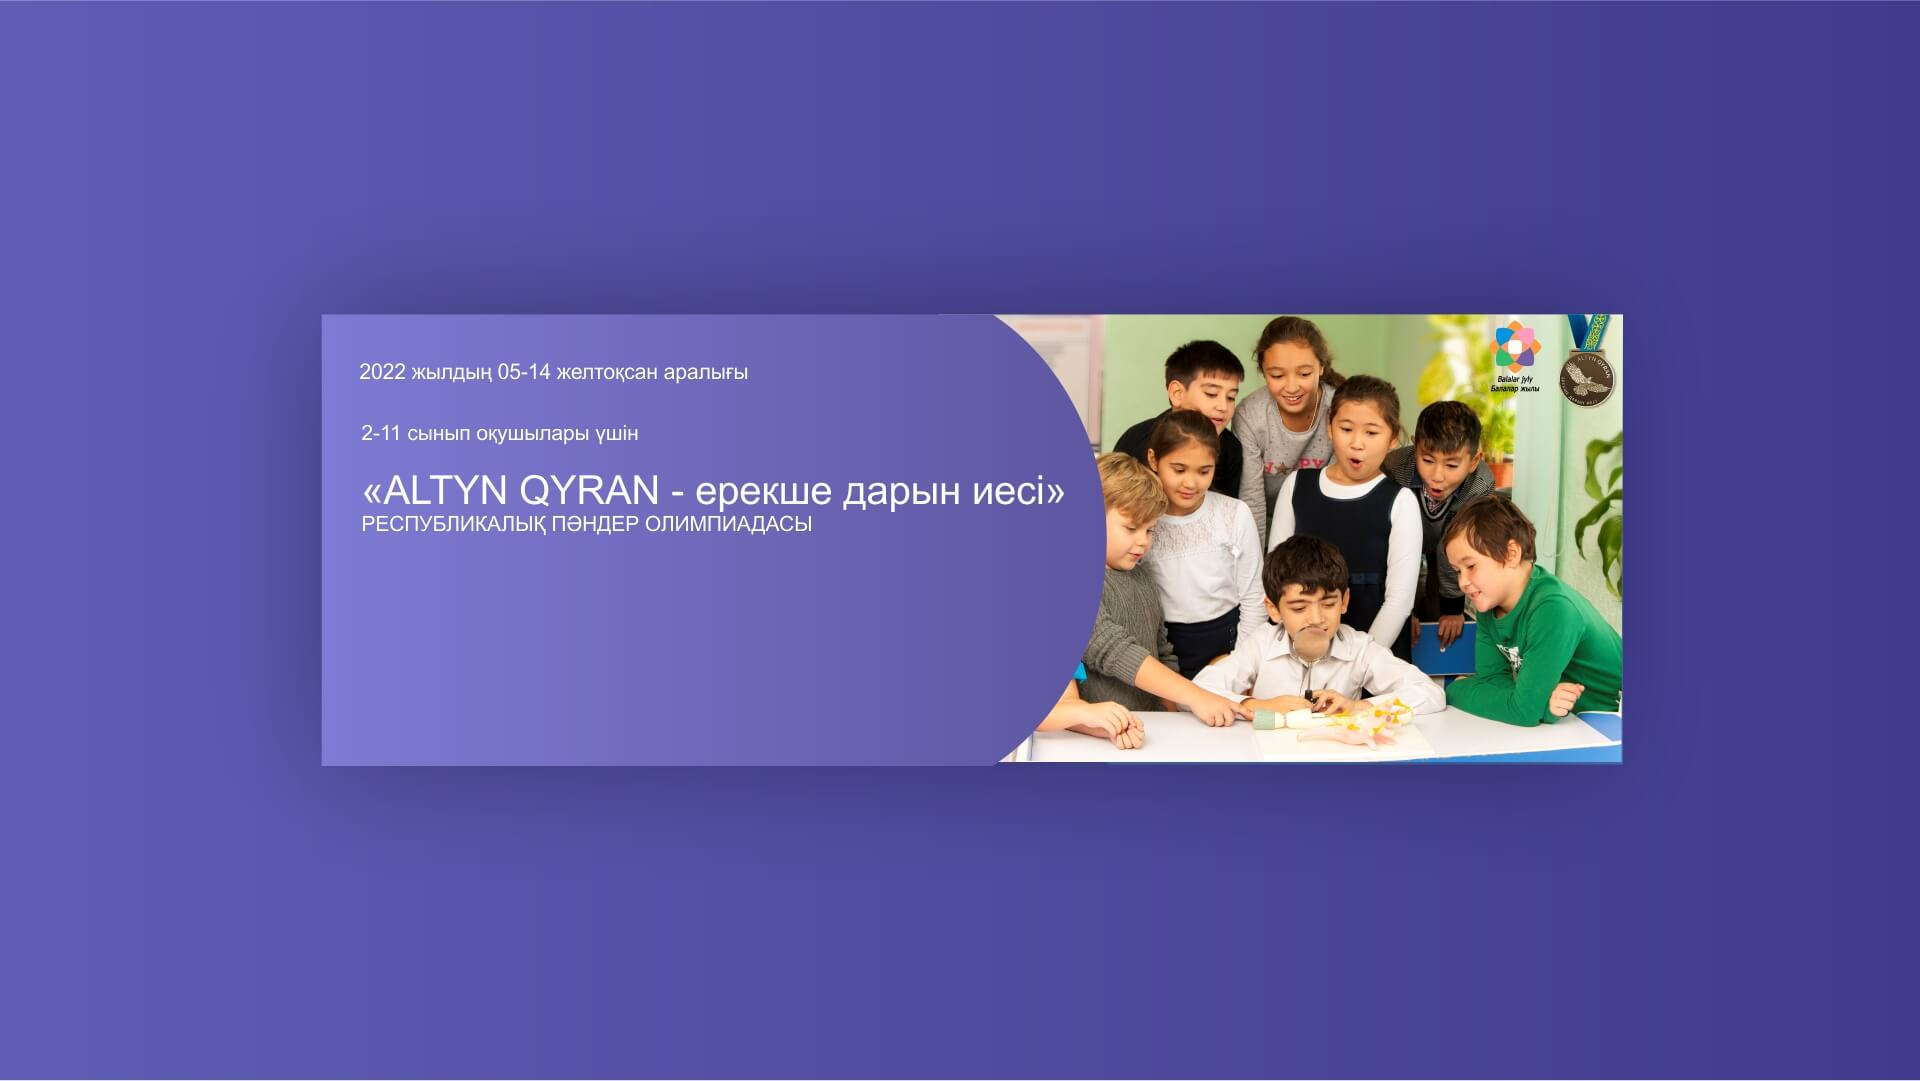
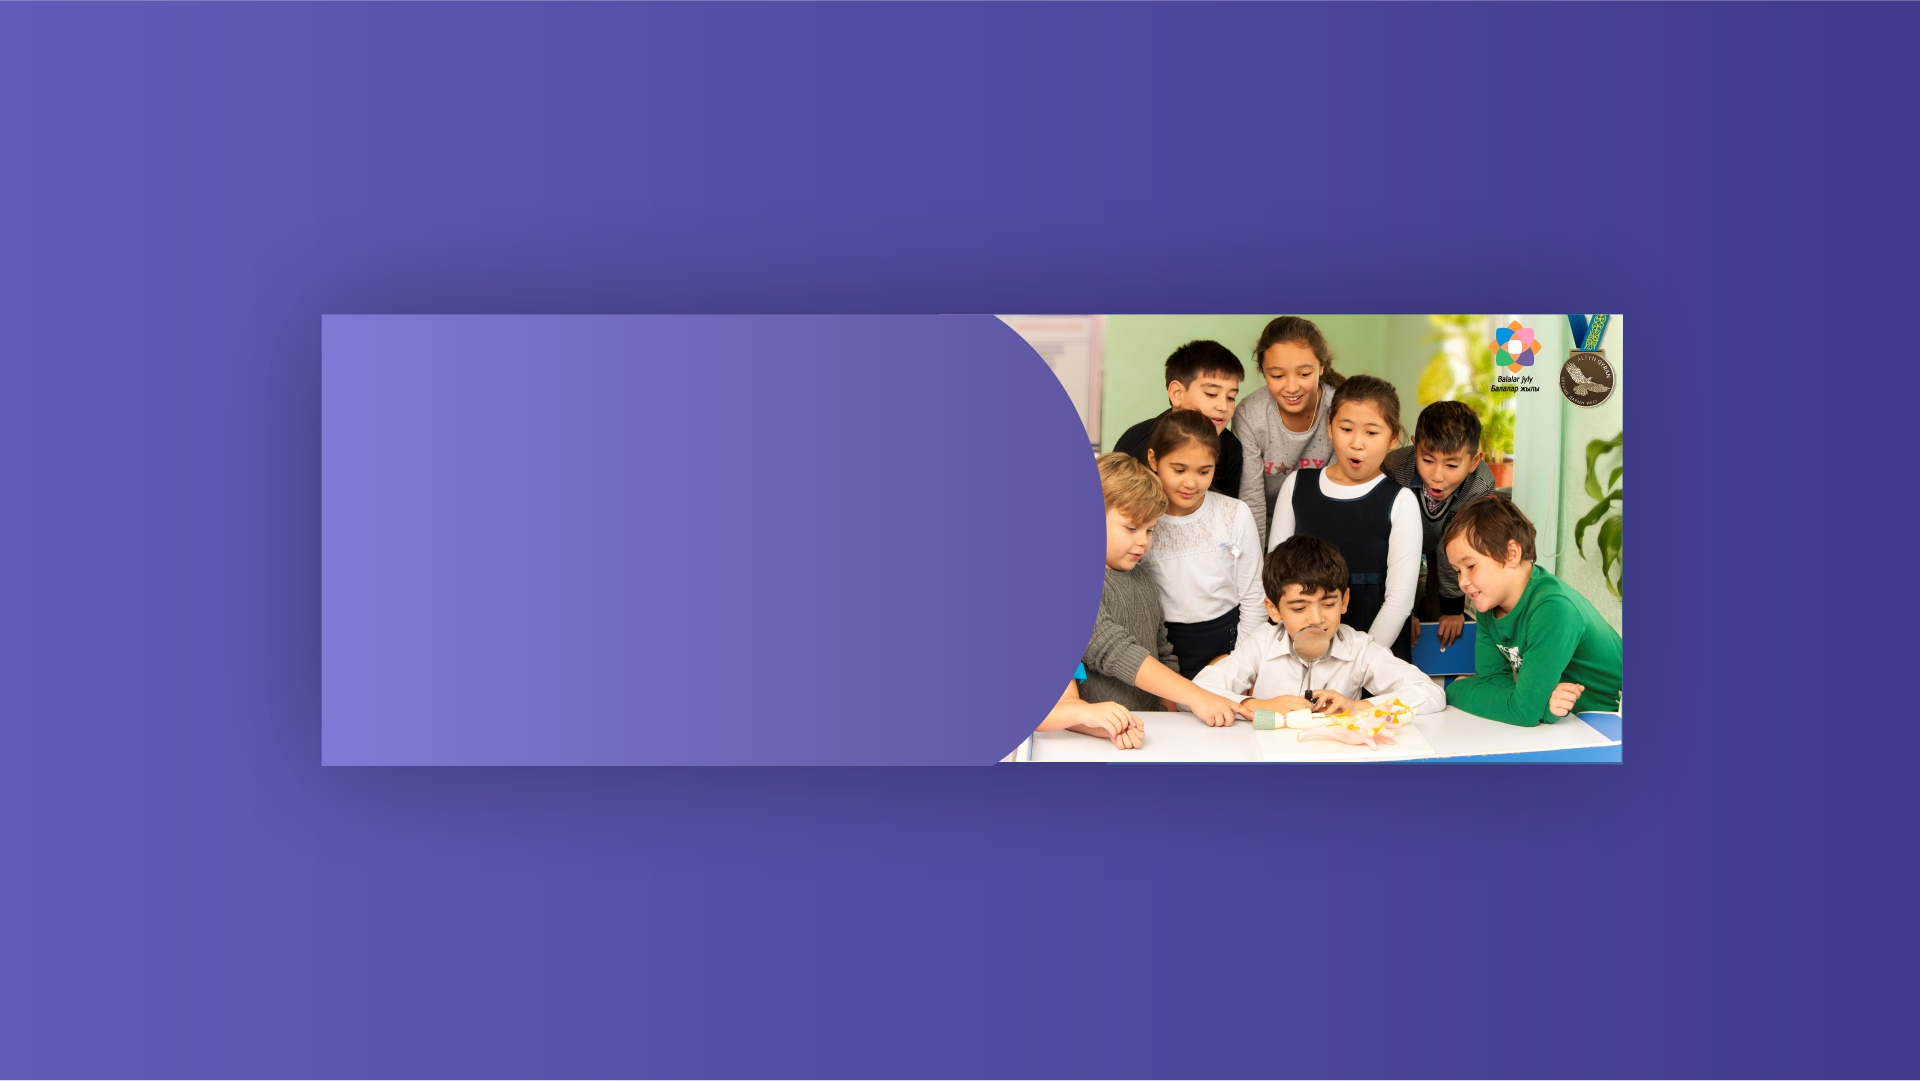
fixes

Changed region(s): [[0.1875, 0.3969, 0.5625, 0.4884], [0.1875, 0.3358, 0.4062, 0.3663], [0.8125, 0.2747, 0.8438, 0.3358]]

diff --git a/frontend/views/site/index.php b/frontend/views/site/index.php
@@ -26,6 +26,82 @@ $this->registerMetaTag([
 
                         <div class="overlay-bg" style="opacity: 0.3;"></div>
 
+                        <!-- help text layer -->
+                        <div class="tp-caption tp-resizeme alt-font text-black font-weight-600 text-white"
+                             id="slide-411-layer-01"
+                             data-frames='[{"delay":200,"speed":2000,"frame":"0","from":"y:[100%];z:0;rX:0deg;rY:0;rZ:0;sX:1;sY:1;skX:0;skY:0;opacity:0;","mask":"x:0px;y:[-100%];s:inherit;e:inherit;","to":"o:1;","ease":"Power2.easeInOut"},{"delay":"wait","speed":300,"frame":"999","to":"auto:auto;","ease":"Power3.easeInOut"}]'
+                             data-type="text"
+                             data-whitespace="nowrap"
+                             data-x="['left','center','center','center']" data-hoffset="['0','0','0','0']"
+                             data-y="['middle','middle','middle','middle']" data-voffset="['-160','-160','-160','-140']"
+                             data-width="auto"
+                             data-height="auto"
+                             data-fontsize="['32','26','26','26']"
+                             data-lineheight="['70','59','70','39']"
+                             data-letterspacing="['0','-1','-1','-1']"
+                             data-responsive="on"
+                             data-responsive_offset="on"
+                             data-paddingtop="['0','0','0','0']"
+                             data-paddingbottom="['15','8','8','8']"
+                             data-paddingright="['0','0','0','0']"
+                             data-paddingleft="['0','0','0','0']"
+                             style="text-shadow: 0 0 20px rgba(0,0,0,0.3);">2022 жылдың 05-14 желтоқсан аралығы</div>
+
+                        <!-- main text layer -->
+                        <div class="tp-caption tp-resizeme alt-font text-white"
+                             id="slide-411-layer-01"
+                             data-frames='[{"delay":200,"speed":2000,"frame":"0","from":"y:[100%];z:0;rX:0deg;rY:0;rZ:0;sX:1;sY:1;skX:0;skY:0;opacity:0;","mask":"x:0px;y:[-100%];s:inherit;e:inherit;","to":"o:1;","ease":"Power2.easeInOut"},{"delay":"wait","speed":300,"frame":"999","to":"auto:auto;","ease":"Power3.easeInOut"}]'
+                             data-type="text"
+                             data-whitespace="nowrap"
+                             data-x="['left','center','center','center']" data-hoffset="['0','0','0','0']"
+                             data-y="['middle','middle','middle','middle']" data-voffset="['-50','-50','-115','-65']"
+                             data-width="auto"
+                             data-height="auto"
+                             data-fontsize="['32','32','32','24']"
+                             data-lineheight="['59','59','70','39']"
+                             data-letterspacing="['0','-1','-1','-1']"
+                             data-responsive="on"
+                             data-responsive_offset="on"
+                             data-paddingtop="['0','0','80','0']"
+                             data-paddingbottom="['15','8','8','8']"
+                             data-paddingright="['0','0','0','0']"
+                             data-paddingleft="['0','0','0','0']"
+                             style="text-shadow: 0 0 20px rgba(0,0,0,0.3);">
+                                 2-11 сынып оқушылары үшін
+                             </div>
+
+                        <!-- small text layer -->
+                        <div class="tp-caption tp-resizeme alt-font text-white"
+                             id="slide-411-layer-02"
+                             data-frames='[{"delay":1200,"speed":1000,"frame":"0","from":"y:[100%];z:0;rX:0deg;rY:0;rZ:0;sX:1;sY:1;skX:0;skY:0;opacity:0;","mask":"x:0px;y:[-100%];s:inherit;e:inherit;","to":"o:1;","ease":"Power2.easeInOut"},{"delay":"wait","speed":300,"frame":"999","to":"auto:auto;","ease":"Power3.easeInOut"}]'
+                             data-type="text"
+                             data-x="['left','center','center','center']" data-hoffset="['0','0','0','0']"
+                             data-y="['middle','middle','middle','middle']" data-voffset="['85','100','-5','15']"
+                             data-width="auto"
+                             data-height="auto"
+                             data-fontsize="['36','16','19','14']"
+                             data-lineheight="['28','14','23','20']"
+                             data-letterspacing="['0.5','0.5','0.5','0.5']"
+                             data-responsive="off"
+                             data-responsive_offset="on">
+                            «Altyn Qyran - ерекше дарын иесі»
+                        </div>
+                        <div class="tp-caption tp-resizeme alt-font text-white"
+                             id="slide-411-layer-02"
+                             data-frames='[{"delay":1200,"speed":1000,"frame":"0","from":"y:[100%];z:0;rX:0deg;rY:0;rZ:0;sX:1;sY:1;skX:0;skY:0;opacity:0;","mask":"x:0px;y:[-100%];s:inherit;e:inherit;","to":"o:1;","ease":"Power2.easeInOut"},{"delay":"wait","speed":300,"frame":"999","to":"auto:auto;","ease":"Power3.easeInOut"}]'
+                             data-type="text"
+                             data-x="['left','center','center','center']" data-hoffset="['0','0','0','0']"
+                             data-y="['middle','middle','middle','middle']" data-voffset="['120','100','-5','15']"
+                             data-width="auto"
+                             data-height="auto"
+                             data-fontsize="['36','16','19','14']"
+                             data-lineheight="['28','14','23','20']"
+                             data-letterspacing="['0.5','0.5','0.5','0.5']"
+                             data-responsive="off"
+                             data-responsive_offset="on">
+                            РЕСПУБЛИКАЛЫҚ ПӘНДЕР ОЛИМПИАДАСЫ
+                        </div>
+
                         <!-- btn layer -->
                         <a class="tp-caption tp-resizeme rs-btn btn btn-rounded d-flex align-items-center justify-content-center"
                            href="<?= Url::to(['olympiad/view', 'id' => 10]) ?>"
